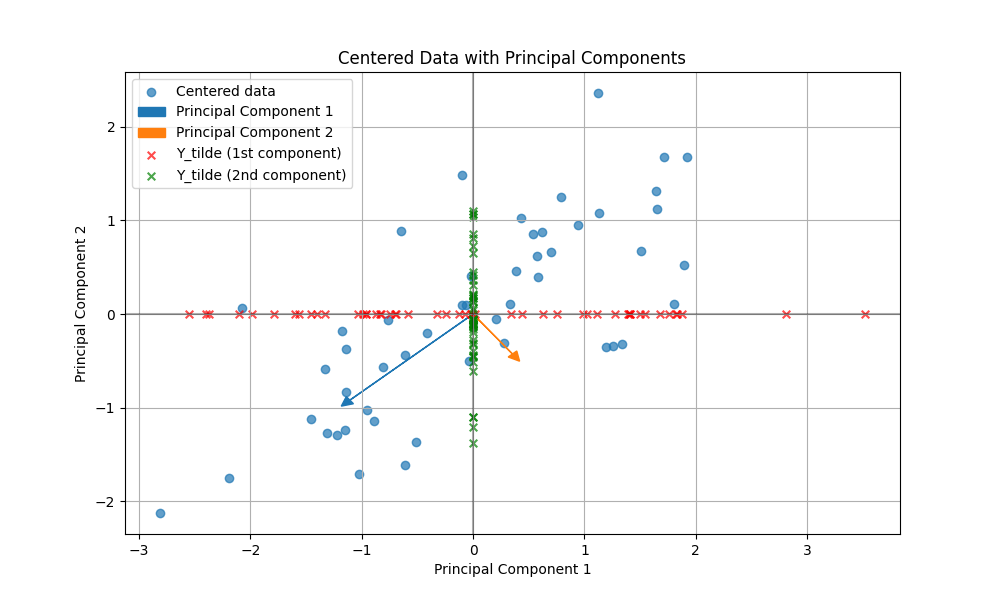
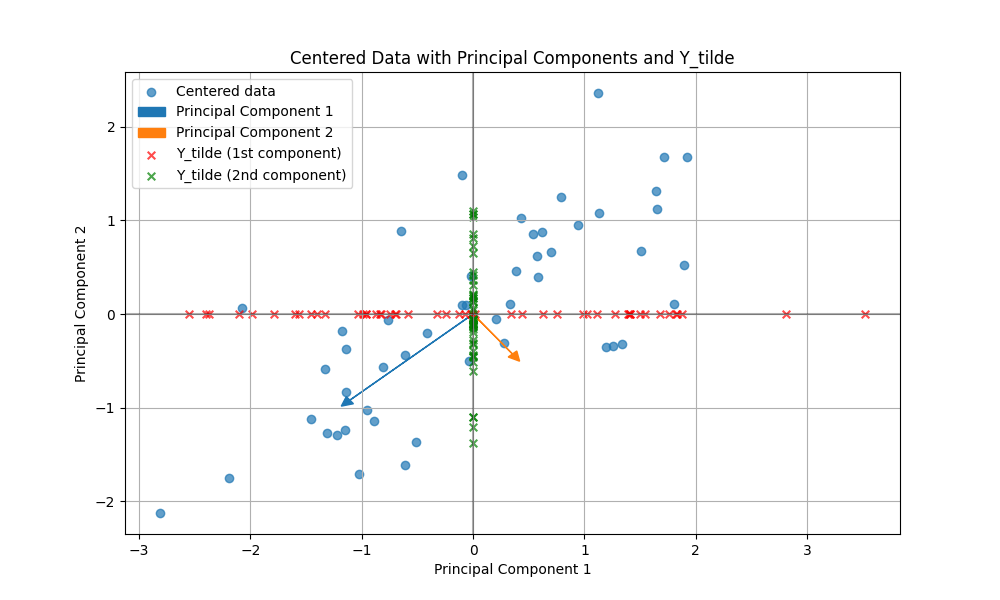
chgange

Changed region(s): [[0.279, 0.09, 0.744, 0.12]]

diff --git a/ML_ADVANCED/LAB4/LAB/pca_implementation.py b/ML_ADVANCED/LAB4/LAB/pca_implementation.py
@@ -1,8 +1,193 @@
+import matplotlib.pyplot as plt
 import numpy as np
+
+
+# Function to plot centered data with principal components and Y_tilde
+def plot_centered_data_with_pca(X, pca, X_transformed):
+    """
+    Plot the centered training data with principal components and Y_tilde.
+    
+    Args:
+        X: Original data
+        pca: Fitted PCA object
+        X_transformed: Transformed data (Y_tilde)
+    """
+    plt.figure(figsize=(10, 6))
+
+    # Get centered data
+    X_centered = X - pca.mean
+
+    # Plot centered data
+    plt.scatter(X_centered[:, 0], X_centered[:, 1], alpha=0.7, label='Centered data')
+
+    # Plot principal components (eigenvectors)
+    for i in range(pca.components.shape[1]):
+        plt.arrow(0, 0,
+                  pca.components[0, i] * np.sqrt(pca.explained_variance[i]),
+                  pca.components[1, i] * np.sqrt(pca.explained_variance[i]),
+                  head_width=0.1, head_length=0.1,
+                  fc=plt.cm.tab10(i), ec=plt.cm.tab10(i),
+                  label=f'Principal Component {i + 1}')
+
+    # Plot transformed data in original space (Y_tilde)
+    plt.scatter(X_transformed[:, 0], np.zeros_like(X_transformed[:, 0]),
+                alpha=0.7, marker='x', s=30, c='red', label='Y_tilde (1st component)')
+    if X_transformed.shape[1] > 1:
+        plt.scatter(np.zeros_like(X_transformed[:, 1]), X_transformed[:, 1],
+                    alpha=0.7, marker='x', s=30, c='green', label='Y_tilde (2nd component)')
+
+    plt.xlabel('Principal Component 1')
+    plt.ylabel('Principal Component 2')
+    plt.title('Centered Data with Principal Components and Y_tilde')
+    plt.axhline(y=0, color='k', linestyle='-', alpha=0.3)
+    plt.axvline(x=0, color='k', linestyle='-', alpha=0.3)
+    plt.grid(True)
+    plt.legend()
+    plt.show()
+
+
+# Function to plot original data with principal components and Y_hat
+def plot_original_data_with_reconstruction(X, pca, X_transformed):
+    """
+    Plot the original data with principal components and reconstructed data (Y_hat).
+    
+    Args:
+        X: Original data
+        pca: Fitted PCA object
+        X_transformed: Transformed data (Y_tilde)
+    """
+    plt.figure(figsize=(10, 6))
+    
+    # Original data
+    plt.scatter(X[:, 0], X[:, 1], alpha=0.7, label='Original data')
+    
+    # Principal components around the mean
+    for i in range(pca.components.shape[1]):
+        plt.arrow(pca.mean[0], pca.mean[1],
+                  pca.components[0, i] * np.sqrt(pca.explained_variance[i]) * 2,
+                  pca.components[1, i] * np.sqrt(pca.explained_variance[i]) * 2,
+                  head_width=0.1, head_length=0.1,
+                  fc=plt.cm.tab10(i), ec=plt.cm.tab10(i),
+                  label=f'Principal Component {i + 1}')
+    
+    # Reconstructed data (Y_hat)
+    Y_hat = pca.inverse_transform(X_transformed)
+    plt.scatter(Y_hat[:, 0], Y_hat[:, 1],
+                alpha=0.5, marker='o', edgecolors='red', facecolors='none',
+                s=80, label='Y_hat (Reconstructed)')
+    
+    # Draw lines connecting original and reconstructed points
+    for i in range(len(X)):
+        plt.plot([X[i, 0], Y_hat[i, 0]],
+                 [X[i, 1], Y_hat[i, 1]],
+                 'k-', alpha=0.2)
+    
+    plt.xlabel('Feature 1')
+    plt.ylabel('Feature 2')
+    plt.title('Original Data with Principal Components and Y_hat')
+    plt.grid(True)
+    plt.legend()
+    plt.show()
+
+
+# Function to plot test results in both centered and original spaces
+def plot_test_results(test_data, pca, test_transformed):
+    """
+    Plot test results on N-dimensional space for both the centered and original data.
+    
+    Args:
+        test_data: Test data
+        pca: Fitted PCA object
+        test_transformed: Transformed test data
+    """
+    fig, axes = plt.subplots(1, 2, figsize=(18, 7))
+    
+    # Plot 1: Centered test data
+    # Get centered test data
+    test_centered = test_data - pca.mean
+    
+    # Plot centered test data
+    axes[0].scatter(test_centered[:, 0], test_centered[:, 1], alpha=0.7, color='purple', 
+                   label='Centered test data')
+    
+    # Plot principal components (eigenvectors)
+    for i in range(pca.components.shape[1]):
+        axes[0].arrow(0, 0,
+                    pca.components[0, i] * np.sqrt(pca.explained_variance[i]),
+                    pca.components[1, i] * np.sqrt(pca.explained_variance[i]),
+                    head_width=0.1, head_length=0.1, 
+                    fc=plt.cm.tab10(i), ec=plt.cm.tab10(i),
+                    label=f'Principal Component {i + 1}')
+    
+    # Plot transformed test data projections
+    axes[0].scatter(test_transformed[:, 0], np.zeros_like(test_transformed[:, 0]), 
+                   alpha=0.7, marker='x', s=40, color='red', 
+                   label='Test Y_tilde (1st component)')
+    if test_transformed.shape[1] > 1:
+        axes[0].scatter(np.zeros_like(test_transformed[:, 1]), test_transformed[:, 1], 
+                        alpha=0.7, marker='x', s=40, color='green', 
+                        label='Test Y_tilde (2nd component)')
+    
+    # Plot connections between centered data and projections
+    for i in range(len(test_centered)):
+        axes[0].plot([test_centered[i, 0], test_transformed[i, 0]], 
+                    [test_centered[i, 1], 0], 
+                    'r--', alpha=0.3)
+        if test_transformed.shape[1] > 1:
+            axes[0].plot([test_centered[i, 0], 0], 
+                         [test_centered[i, 1], test_transformed[i, 1]], 
+                         'g--', alpha=0.3)
+    
+    axes[0].set_xlabel('Principal Component 1')
+    axes[0].set_ylabel('Principal Component 2')
+    axes[0].set_title('Centered Test Data with Principal Components')
+    axes[0].axhline(y=0, color='k', linestyle='-', alpha=0.3)
+    axes[0].axvline(x=0, color='k', linestyle='-', alpha=0.3)
+    axes[0].grid(True)
+    axes[0].legend()
+    
+    # Plot 2: Original test data
+    # Original test data
+    axes[1].scatter(test_data[:, 0], test_data[:, 1], alpha=0.7, color='purple', 
+                    label='Original test data')
+    
+    # Principal components around the mean
+    for i in range(pca.components.shape[1]):
+        axes[1].arrow(pca.mean[0], pca.mean[1],
+                      pca.components[0, i] * np.sqrt(pca.explained_variance[i]) * 2,
+                      pca.components[1, i] * np.sqrt(pca.explained_variance[i]) * 2,
+                      head_width=0.1, head_length=0.1, 
+                      fc=plt.cm.tab10(i), ec=plt.cm.tab10(i),
+                      label=f'Principal Component {i + 1}')
+    
+    # Reconstructed test data
+    test_reconstructed = pca.inverse_transform(test_transformed)
+    axes[1].scatter(test_reconstructed[:, 0], test_reconstructed[:, 1], 
+                    alpha=0.5, marker='o', edgecolors='red', facecolors='none', 
+                    s=80, label='Y_tilde (Reconstructed test)')
+    
+    # Draw lines connecting original and reconstructed test points
+    for i in range(len(test_data)):
+        axes[1].plot([test_data[i, 0], test_reconstructed[i, 0]], 
+                     [test_data[i, 1], test_reconstructed[i, 1]], 
+                     'k-', alpha=0.3)
+    
+    axes[1].set_xlabel('Feature 1')
+    axes[1].set_ylabel('Feature 2')
+    axes[1].set_title('Original Test Data with Principal Components and Y_tilde')
+    axes[1].grid(True)
+    axes[1].legend()
+    
+    plt.tight_layout()
+    plt.show()
+
 
 # Load the data
 data = np.loadtxt('./ML_ADVANCED/LAB4/LAB/data/data_pca.txt')
 print(f"Data shape: {data.shape}")
+
+# Print the first 5 rows of the data
+print(f"First 5 rows of the data: \n {data[:5]}")
 
 
 class PCA:
@@ -56,15 +241,16 @@ class PCA:
 n_components = data.shape[1]
 
 # Create and fit PCA with full components
-pca_full = PCA(n_components=n_components)
-pca_full.fit(data)
+pca = PCA(n_components=n_components)
+pca.fit(data)
 
 # Get the transformed data
-data_transformed_full = pca_full.transform(data)
+data_transformed_full = pca.transform(data)
 print(f"Transformed data shape: {data_transformed_full.shape}")
+print(f"Transformed data from the first 5 rows: \n {data_transformed_full[:5]}")
 
 # Calculate explained variance ratio
-explained_var_ratio = pca_full.explained_variance / np.sum(pca_full.explained_variance)
+explained_var_ratio = pca.explained_variance / np.sum(pca.explained_variance)
 print("Explained variance ratio by component:")
 for i, ratio in enumerate(explained_var_ratio):
     print(f"Component {i + 1}: {ratio:.4f} ({ratio * 100:.2f}%)")
@@ -75,12 +261,19 @@ test_data = np.loadtxt('./ML_ADVANCED/LAB4/LAB/data/test.txt')
 print(f"Test data shape: {test_data.shape}")
 
 # Transform test data
-test_transformed = pca_full.transform(test_data)
-test_reconstructed = pca_full.inverse_transform(test_transformed)
+test_transformed = pca.transform(test_data)
+test_reconstructed = pca.inverse_transform(test_transformed)
 
 print("\n--- Results for test.txt data ---")
 print(f"Original test data shape: {test_data.shape}")
 print(f"Transformed test data shape: {test_transformed.shape}")
 print(f"Reconstructed test data shape: {test_reconstructed.shape}")
 
+# Plot centered training data with principal components and Y_tilde
+plot_centered_data_with_pca(data, pca, data_transformed_full)
 
+# Plot original data with principal components and reconstructed data
+plot_original_data_with_reconstruction(data, pca, data_transformed_full)
+
+# Plot test results in both centered and original spaces
+plot_test_results(test_data, pca, test_transformed)
